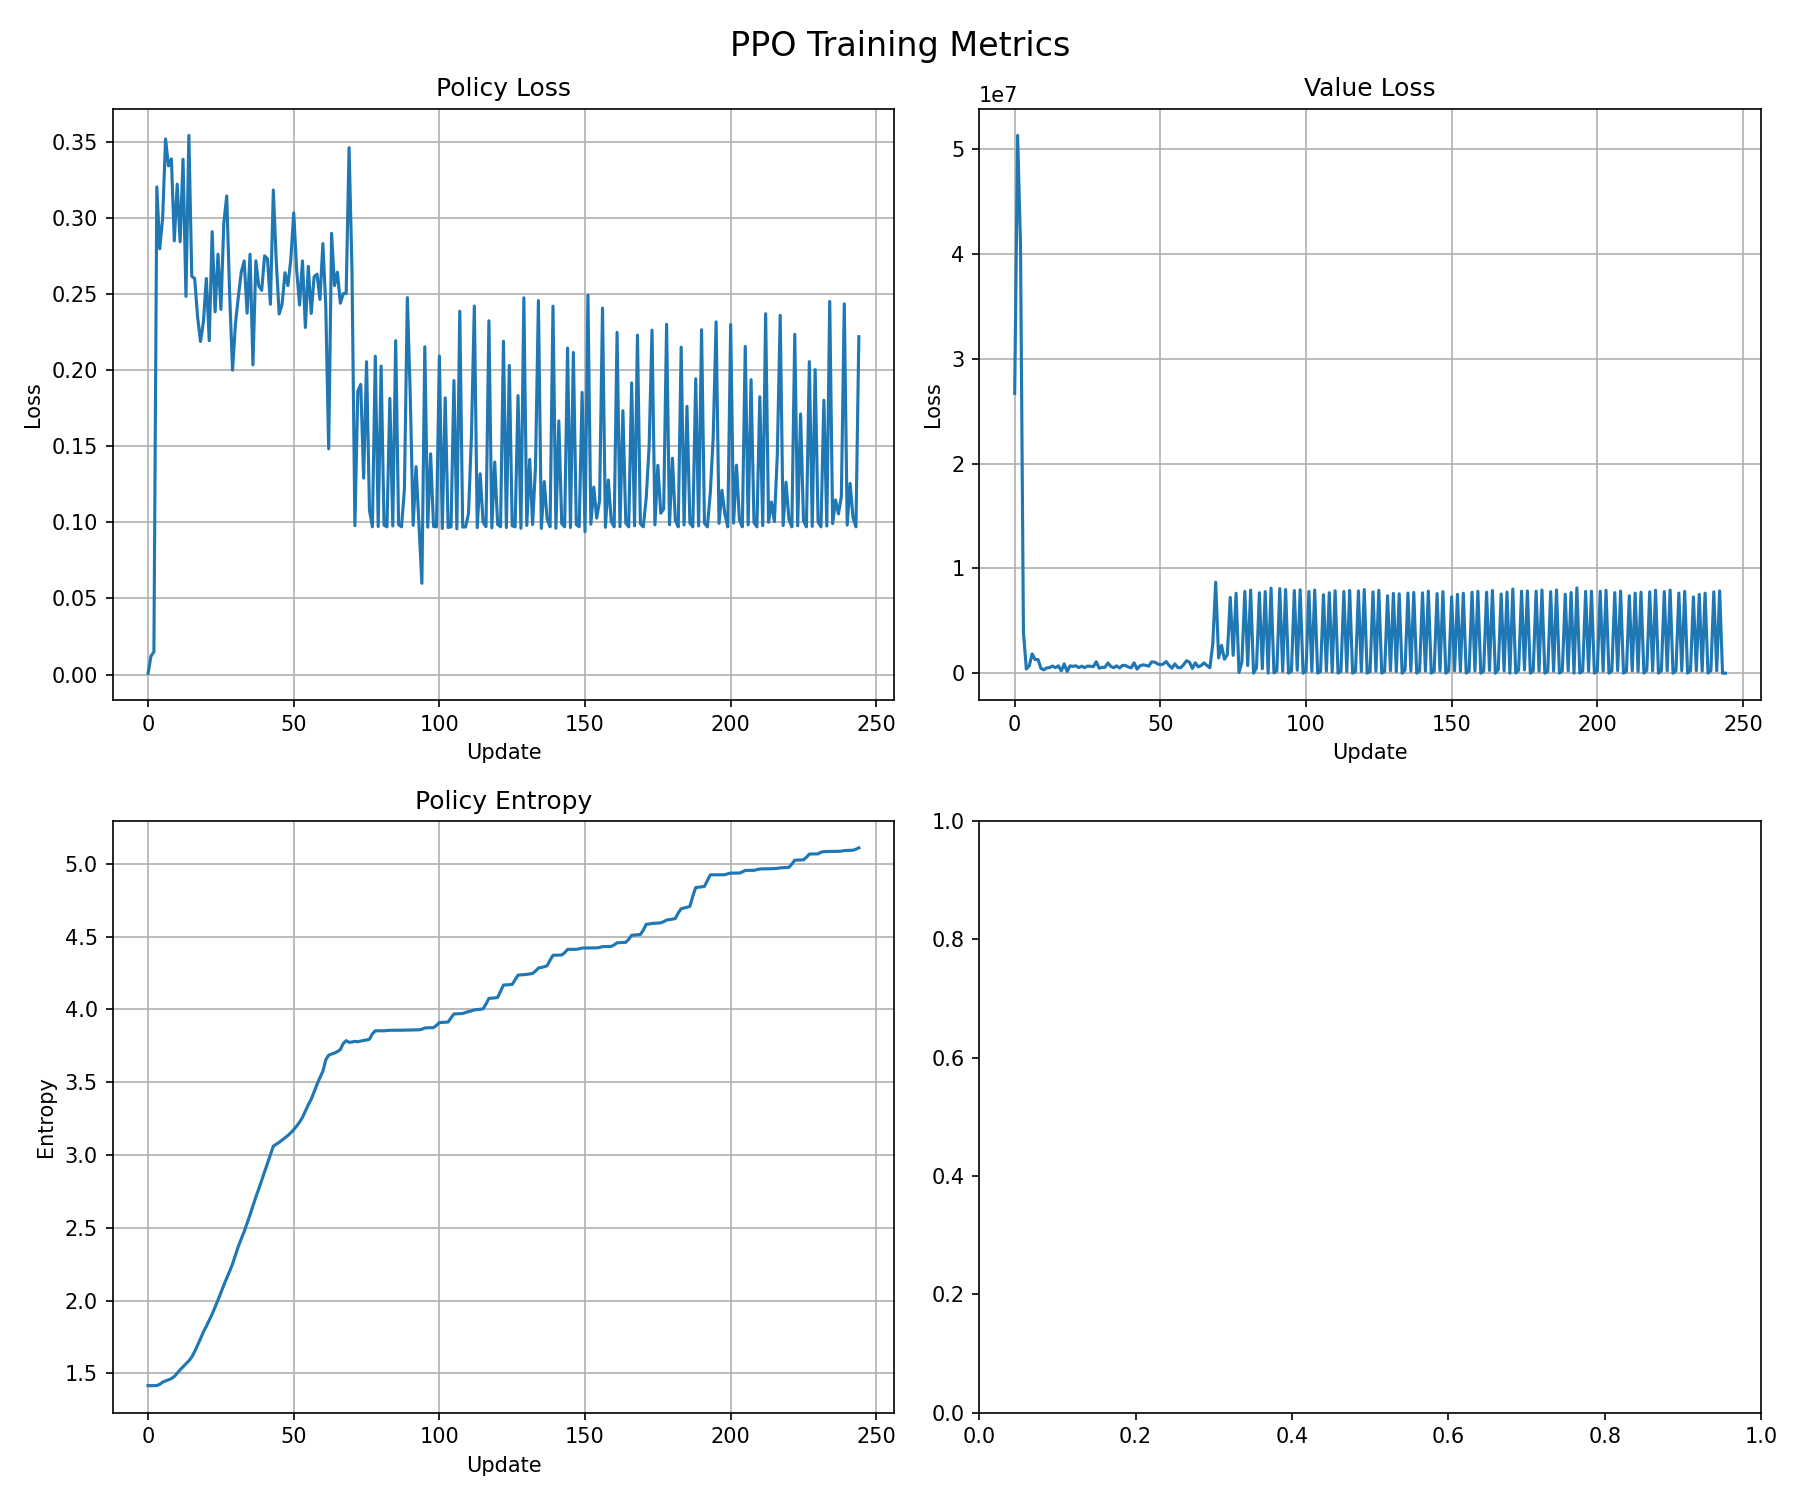
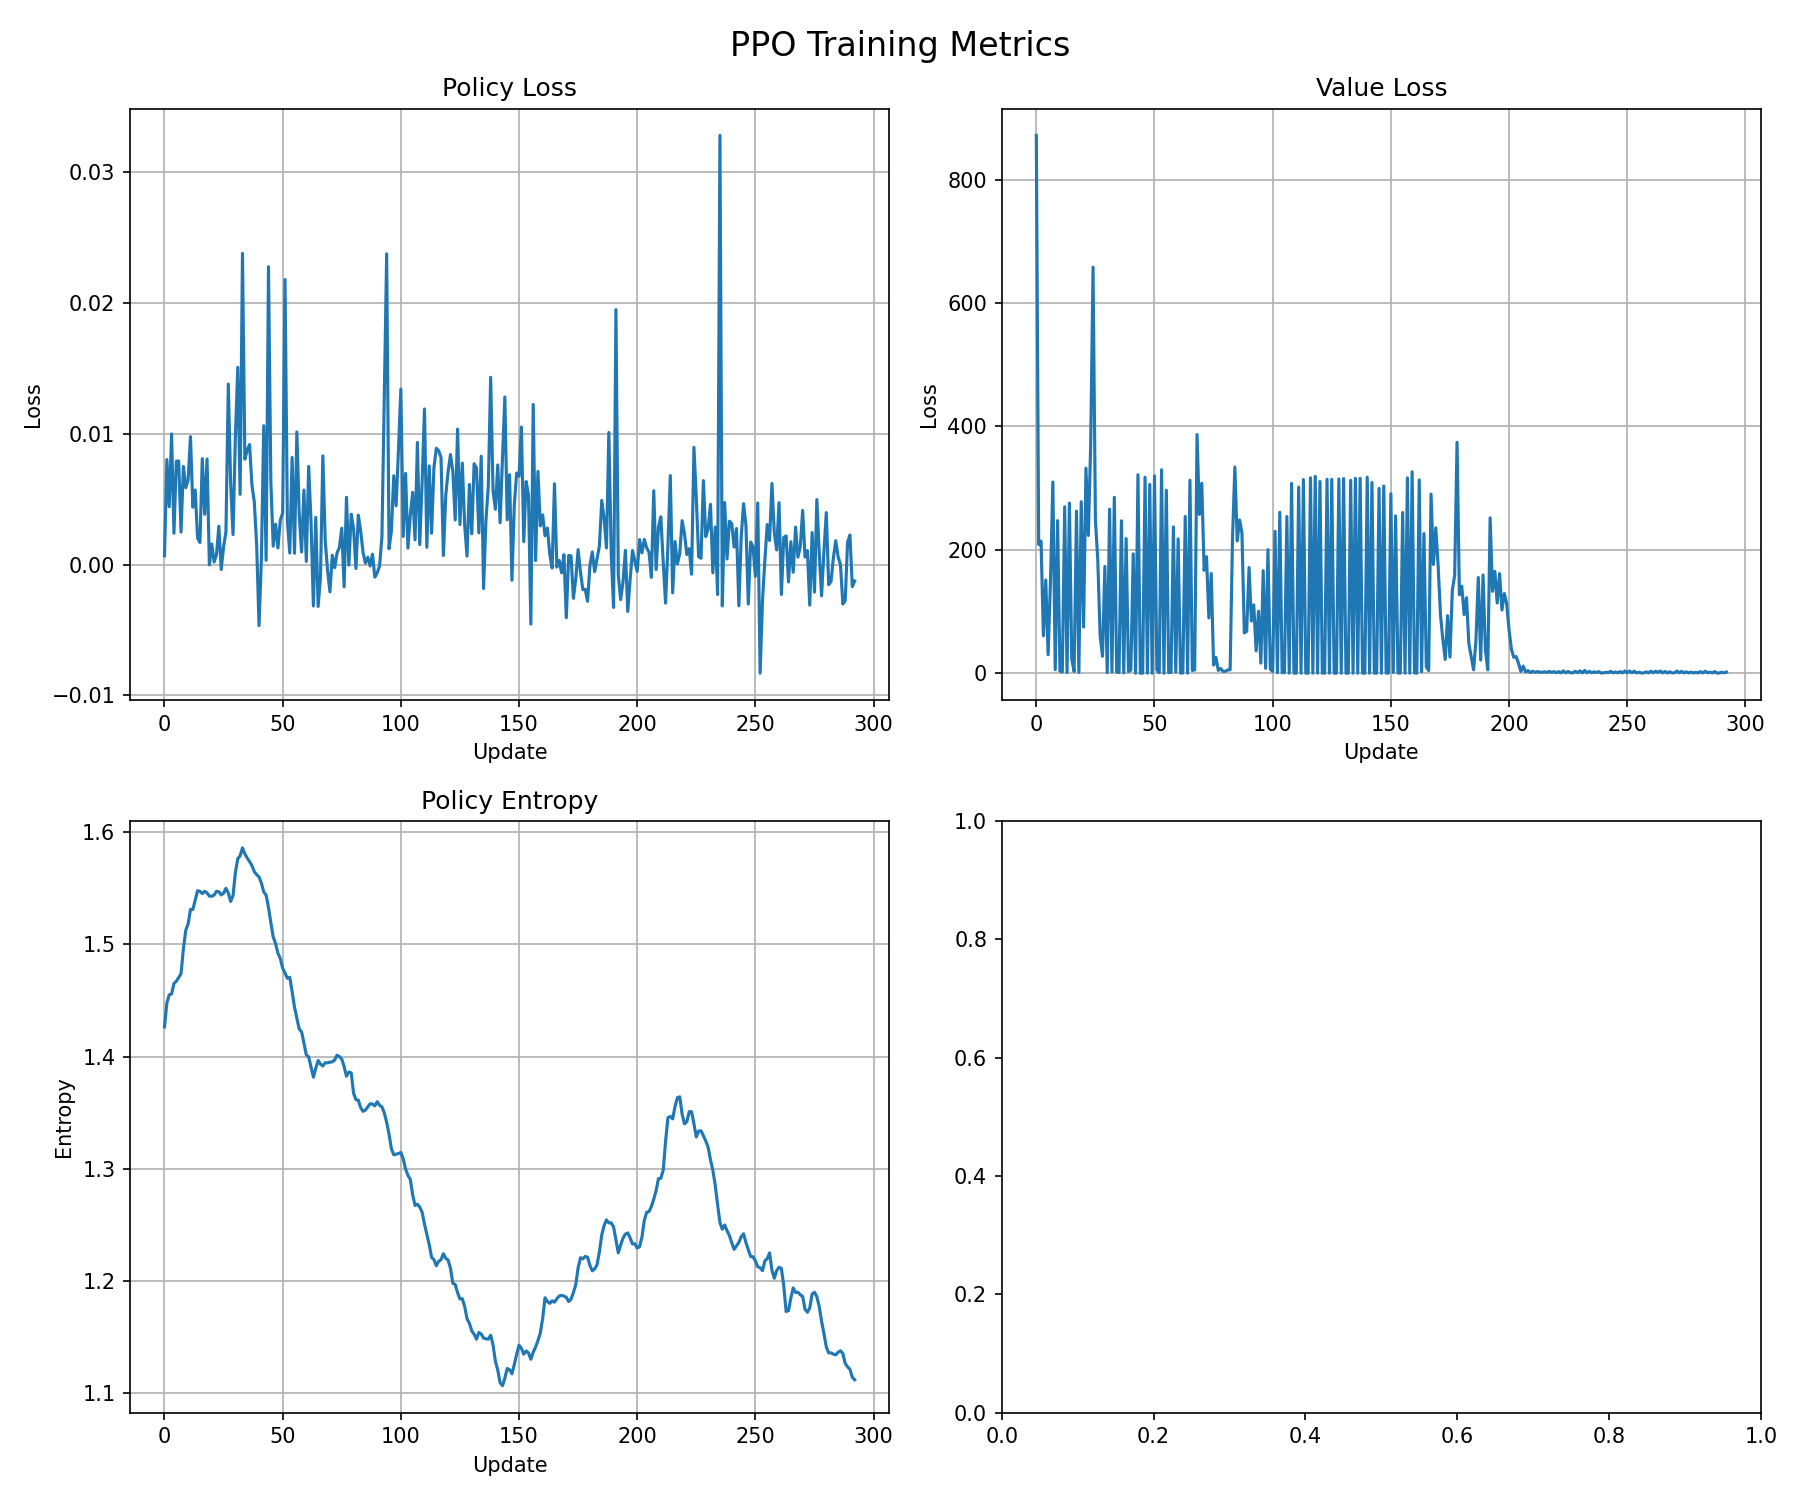
Add more episodes

diff --git a/rl_mixed_traffic/ppo_train.py b/rl_mixed_traffic/ppo_train.py
@@ -28,7 +28,7 @@ def make_env(gui: bool = False):
 
 
 def train(
-    total_steps: int = 500_000,
+    total_steps: int = 600_000,
     rollout_steps: int = 2048,
     save_freq: int = 50_000,
 ):
